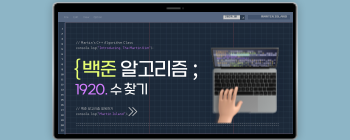
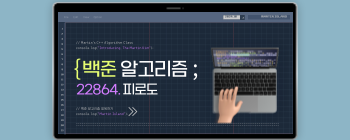
[blog] blog 업로드

Changed region(s): [[0.2, 0.5714, 0.4571, 0.6857]]

diff --git a/src/posts/11.md b/src/posts/11.md
@@ -1,0 +1,65 @@
+---
+title: "피로도 | 백준 22864번"
+date: "2024-11-14"
+id: 11
+image: "/images/11.png"
+category: "백준"
+---
+<h4><strong>📚 문제 분석</strong></h4>
+
+- <stong style="color:#ad5600">브론즈 2</stong>, 시간 제한 1초
+- 그리디 알고리즘을 활용하는 문제입니다.
+
+<style>
+  .code-block {
+    font-family: 'jetbrains-mono-regular', monospace;
+    font-size: 1.1em;
+    overflow-x: auto;
+  }
+</style>
+<br/>
+
+<h4><strong>💡 효율적인 풀이</strong></h4>
+
+<div class="code-block">
+
+```c++
+#include <iostream>
+using namespace std;
+
+int main()
+{
+    int damage, work, heal, threshold;
+    cin >> damage >> work >> heal >> threshold;
+    
+    int hp = 0;
+    int money = 0;
+    
+    if (damage > threshold){
+        cout << money << '\n';
+        return 0;
+    }
+    
+    for (int i = 0; i < 24; i++){
+        if (hp + damage > threshold){
+            if (hp - heal < 0){
+                hp = 0;
+            }
+            else{
+                hp -= heal;
+            }
+        }
+        else if (hp + damage <= threshold){
+            hp += damage;
+            money += work;
+        }
+    }
+    
+    cout << money << '\n';
+
+    return 0;
+}
+```
+</div>
+
+출처: https://www.acmicpc.net/problem/22864

diff --git a/src/posts/12.md b/src/posts/12.md
@@ -1,0 +1,65 @@
+---
+title: "주유소 | 백준 13305번"
+date: "2024-11-14"
+id: 12
+image: "/images/12.png"
+category: "백준"
+---
+<h4><strong>📚 문제 분석</strong></h4>
+
+- <stong style="color:#435f7a">실버 3</stong>, 시간 제한 2초
+- 그리디 알고리즘을 활용하는 문제입니다.
+
+<style>
+  .code-block {
+    font-family: 'jetbrains-mono-regular', monospace;
+    font-size: 1.1em;
+    overflow-x: auto;
+  }
+</style>
+<br/>
+
+<h4><strong>💡 효율적인 풀이</strong></h4>
+
+<div class="code-block">
+
+```c++
+#include <iostream>
+#include <vector>
+using namespace std;
+
+int main()
+{   
+    int N;
+    cin >> N;
+    
+    vector<int> distance(N - 1, 0);
+    vector<int> gasPrice(N, 0);
+    
+    for (int i = 0; i < N - 1; i++){
+        cin >> distance[i];
+    }
+    
+    for (int i = 0; i < N; i++){
+        cin >> gasPrice[i];
+    }
+    
+    int minPrice = gasPrice[0];
+    long long totalPrice = 0;
+
+    for (int i = 0; i < N - 1; i++){
+        if (minPrice > gasPrice[i]){
+            minPrice = gasPrice[i];
+        }
+        
+        totalPrice += static_cast<long long>(minPrice) * distance[i];
+    }
+    
+    cout << totalPrice << '\n';
+
+    return 0;
+}
+```
+</div>
+
+출처: https://www.acmicpc.net/problem/13305

diff --git a/src/posts/10.md b/src/posts/10.md
@@ -2,7 +2,7 @@
 title: "수 찾기 | 백준 1920번"
 date: "2024-10-30"
 id: 10
-image: "/images/11.png"
+image: "/images/10.png"
 category: "백준"
 ---
 <h4><strong>📚 문제 분석</strong></h4>
